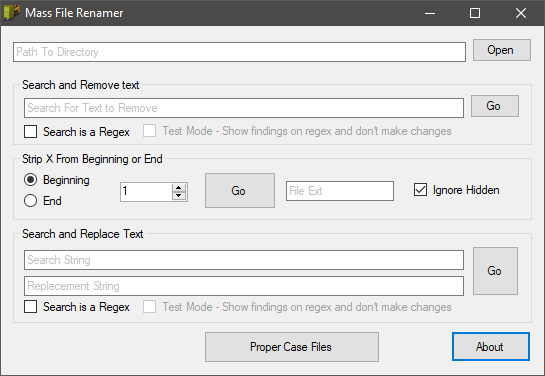
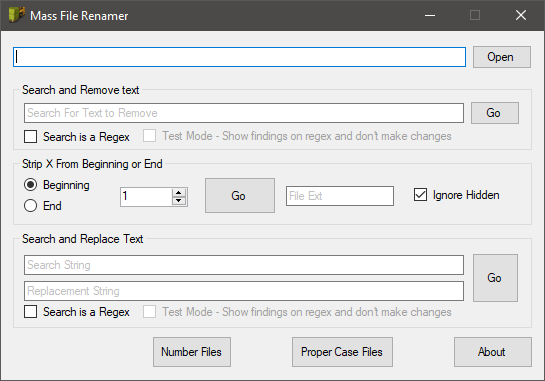
Update screenshot, add minimum reqs, version info

diff --git a/README.md b/README.md
@@ -19,3 +19,10 @@ This app was designed to be a lightweight and more importantly a stand alone app
 - Supports using capture () and recalling it with $1, $2 etc in the replace string.
 - Proper Case (Capitalize the first letter of each word and make the rest lower-case).
 - Automatically number the files in a directory, including leading zeroes.
+
+## Minimum Requirements
+- Windows &ge; 7
+- [.NET Framework](https://dotnet.microsoft.com/en-us/download/dotnet-framework) &ge; 4.6.2
+
+## Version Numbering
+I use a variation of [semantic versioning](https://semver.org/) that follows the scheme `major.minor.patch.revision`.
